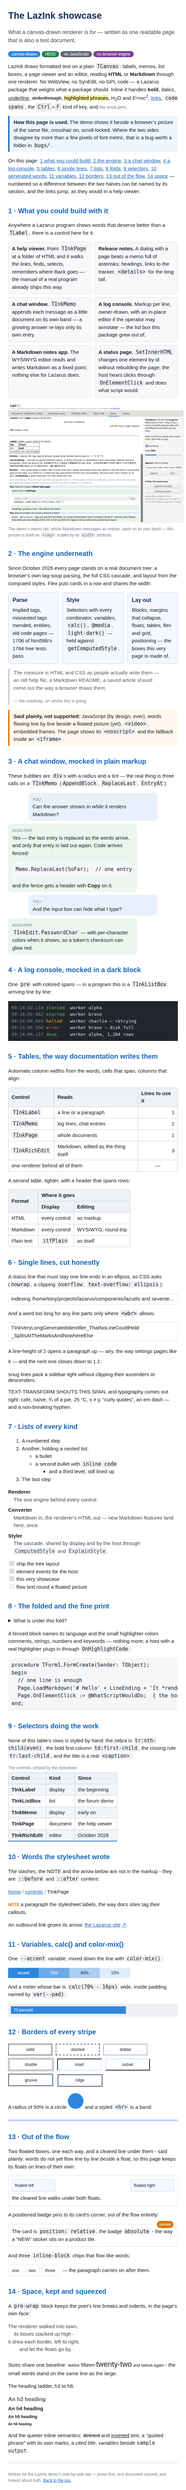
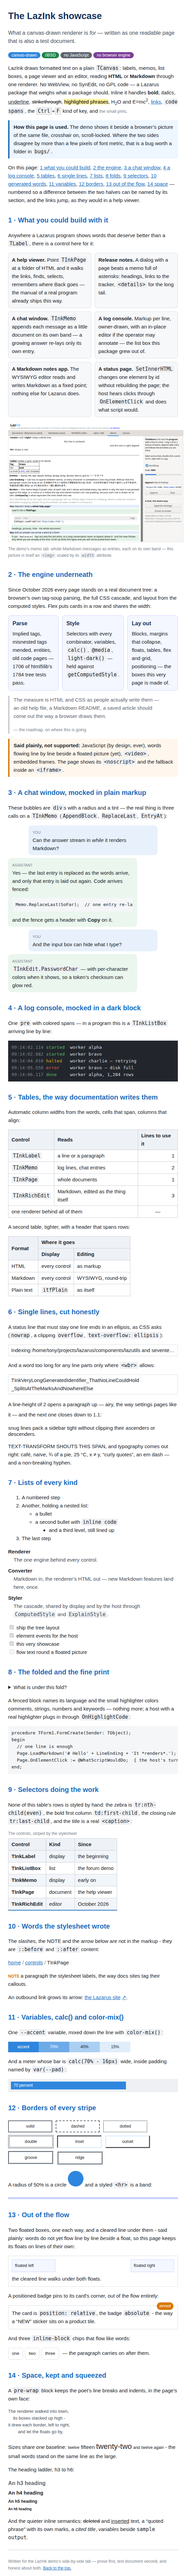
Half a pixel a line: the drift that was left, named and cornered
Tony, watching the tab: "quite a height difference even by the time
section 1 is in the view."  Band-measured at the top of the showcase:
LazInk's paragraph lines advanced at exactly 22 pixels where the
browser's alternated 22 and 23 - font: 15px/1.5 computes 22.5, a
browser carries the fraction, and LinePixels keeps whole pixels, so
every ruled line came up half a pixel short.  Two hundred and fifty
such lines were 125 of the 134 pixels the page was missing;
everything else already agreed.

The true fix is fractional line advance through the engine - a real
round, filed with the measurement in
bugs/2026-10-11-halfpixel-lineheight and the roadmap's small gaps.
Until it is taken, the showcase pins pitches that come out whole:
15px at 1.6 is 24, the lede at 1.5 is 24, pre at 13px/20px, snug at
1.2 - and the two sides now show the same band starts, 190, 218, 242,
266, with section 1 landing within six pixels instead of fifteen and
the whole page within a third of what it was, the rest being one
taller kbd-bearing line.

Changed region(s): [[0.031, 0.0, 0.9927, 0.9981], [0.7755, 0.7486, 0.8686, 0.8109], [0.6515, 0.5926, 0.7445, 0.6238]]

diff --git a/demo/showcase.html b/demo/showcase.html
@@ -17,8 +17,12 @@
          demo/showcase-browser.png 548 <height>
      (shoot once tall, read where the content ends, shoot again). -->
 <style>
+  /* Line pitches that come out whole in pixels (15px x 1.6 = 24), so
+     the comparison is not dominated by sub-pixel line stacking: LazInk
+     keeps whole-pixel line heights and loses half a pixel a line
+     against a browser's 22.5 - bugs/2026-10-11-halfpixel-lineheight. */
   body { background: #ffffff; color: #22262c; font-size: 15px;
-         font-family: Arial, sans-serif; line-height: 1.5;
+         font-family: Arial, sans-serif; line-height: 1.6;
          padding: 14px 16px }
   code, kbd, pre { font-family: 'DejaVu Sans Mono', monospace }
   h1 { color: #14315c; font-size: 27px; margin: 4px 0 2px }
@@ -27,7 +31,8 @@
   a { color: #176bbd }
   code, kbd { background: #eef0f3; padding: 1px 4px; border-radius: 3px }
   kbd { border: 1px solid #c8ccd2 }
-  pre { background: #f4f6f8; padding: 10px; overflow-x: hidden }
+  pre { background: #f4f6f8; padding: 10px; overflow-x: hidden;
+        font-size: 13px; line-height: 20px }
   pre code { background: none; padding: 0 }
   blockquote { color: #5e6670; border-left: 4px solid #c8ccd2;
                margin-left: 0; padding-left: 12px }
@@ -39,7 +44,7 @@
   th { background: #eef2f7 }
   td.num { text-align: right }
   td.mid { text-align: center }
-  .lede { font-size: 16px; color: #46505c }
+  .lede { font-size: 16px; line-height: 1.5; color: #46505c }
   .pill { border-radius: 999px; padding: 2px 10px; color: white;
           font-size: 12px; white-space: nowrap }
   .blue { background: #2e86de } .green { background: #1e8449 }
@@ -66,14 +71,14 @@
   .ans { background: #eaf6ee; margin-right: 60px }
   .who { font-size: 11px; color: #7a828c; text-transform: uppercase }
   /* the log mock */
-  pre.log { background: #22262c; color: #d6dae0; font-size: 13px }
+  pre.log { background: #22262c; color: #d6dae0 }
   .t { color: #7a828c } .ok { color: #58b368 } .err { color: #e4604e }
   .warnc { color: #d9a514 }
   /* one-line machinery */
   .clip { white-space: nowrap; overflow: hidden; text-overflow: ellipsis;
           border: 1px solid #d8dce2; padding: 4px 8px; margin: 6px 0 }
   .airy { line-height: 2 }
-  .snug { line-height: 1.1 }
+  .snug { line-height: 1.2 }
   .shout { text-transform: uppercase }
   figure { margin: 14px 0 }
   figcaption { font-size: 12px; color: #7a828c; margin-top: 4px }

diff --git a/bugs/2026-10-11-halfpixel-lineheight/README.md b/bugs/2026-10-11-halfpixel-lineheight/README.md
@@ -1,0 +1,30 @@
+# Half a pixel a line: whole-pixel line heights against a browser's 22.5
+
+Found 11 October 2026 on the demo's side-by-side tab.  Tony: "there is
+still quite a height difference even by the time section 1 is in the
+view."  Measured band by band at the top of the showcase: LazInk's
+paragraph lines advance at exactly 22 pixels where the browser's
+advance at 22.5 - its band starts run 212, 234, 257 (22, 23,
+alternating) against LazInk's 210, 232, 254.
+
+## Why
+
+`font: 15px/1.5` computes a line-height of 22.5px.  A browser carries
+the fraction (Chromium's LayoutUnit is 1/64px), so n lines stand
+n x 22.5 tall.  LazInk's `LinePixels` rounds to whole pixels once -
+22 - and every ruled line loses half a pixel.  The showcase had about
+250 such lines; 0.5 x 250 = 125 of the 134 pixels the whole page came
+up short.  Everything else on the page agreed to a few pixels.
+
+## The fix, when taken
+
+Fractional line advance through the engine: line-height carried in
+quarter pixels (or 1/64ths) from the tree serializer's `lineheight`
+attribute through `Metrics` and both layout paths, with each line's
+top rounded only at paint.  Contained but real - the field's meaning
+changes everywhere it is read.
+
+Meanwhile the showcase pins integral pitches (15px x 1.6 = 24,
+pre 13px/20px) so the comparison tests everything else pixel-true;
+any page whose computed line-height lands on a half pixel will drift
+half a pixel a line until this is taken.

diff --git a/ROADMAP.md b/ROADMAP.md
@@ -264,6 +264,12 @@ best after the widgetset runs in D, so the listing's claims are true.
   story): the pill run became an atomic box - forced width and height,
   centered words, real border styles, standing even empty, its vertical
   margins counted into the line the way a browser counts them.
+* **Half a pixel a line against a browser** (found 11 October 2026 by
+  the side-by-side): a computed line-height of 22.5px is kept as 22,
+  so long pages come up short by half a pixel per ruled line - 125px
+  over the showcase before its pitches were made integral.  The fix is
+  fractional line advance through the engine;
+  `bugs/2026-10-11-halfpixel-lineheight` has the measurement.
 * `<abbr title>`: a title on anything that is not a link is dropped.
 * Markdown: emphasis does not follow full CommonMark delimiter rules, link
   definitions must fit on one line, no footnotes, an image in a table cell

diff --git a/docs/GUIDE.md b/docs/GUIDE.md
@@ -499,7 +499,7 @@ Markdown notes app - while using the vocabulary once each: tables with
 spans, flex cards, grid, pills, a mocked chat and log, `text-overflow`,
 `<wbr>`, nested folds, highlighted code, entities.  After editing it,
 remake the picture with `tools/browser_shot.sh demo/showcase.html
-demo/showcase-browser.png 548 7310` (shoot tall once and read off the
+demo/showcase-browser.png 548 7560` (shoot tall once and read off the
 new height if the page grew).
 
 ![The side by side tab](../images/demo-compare.png)
